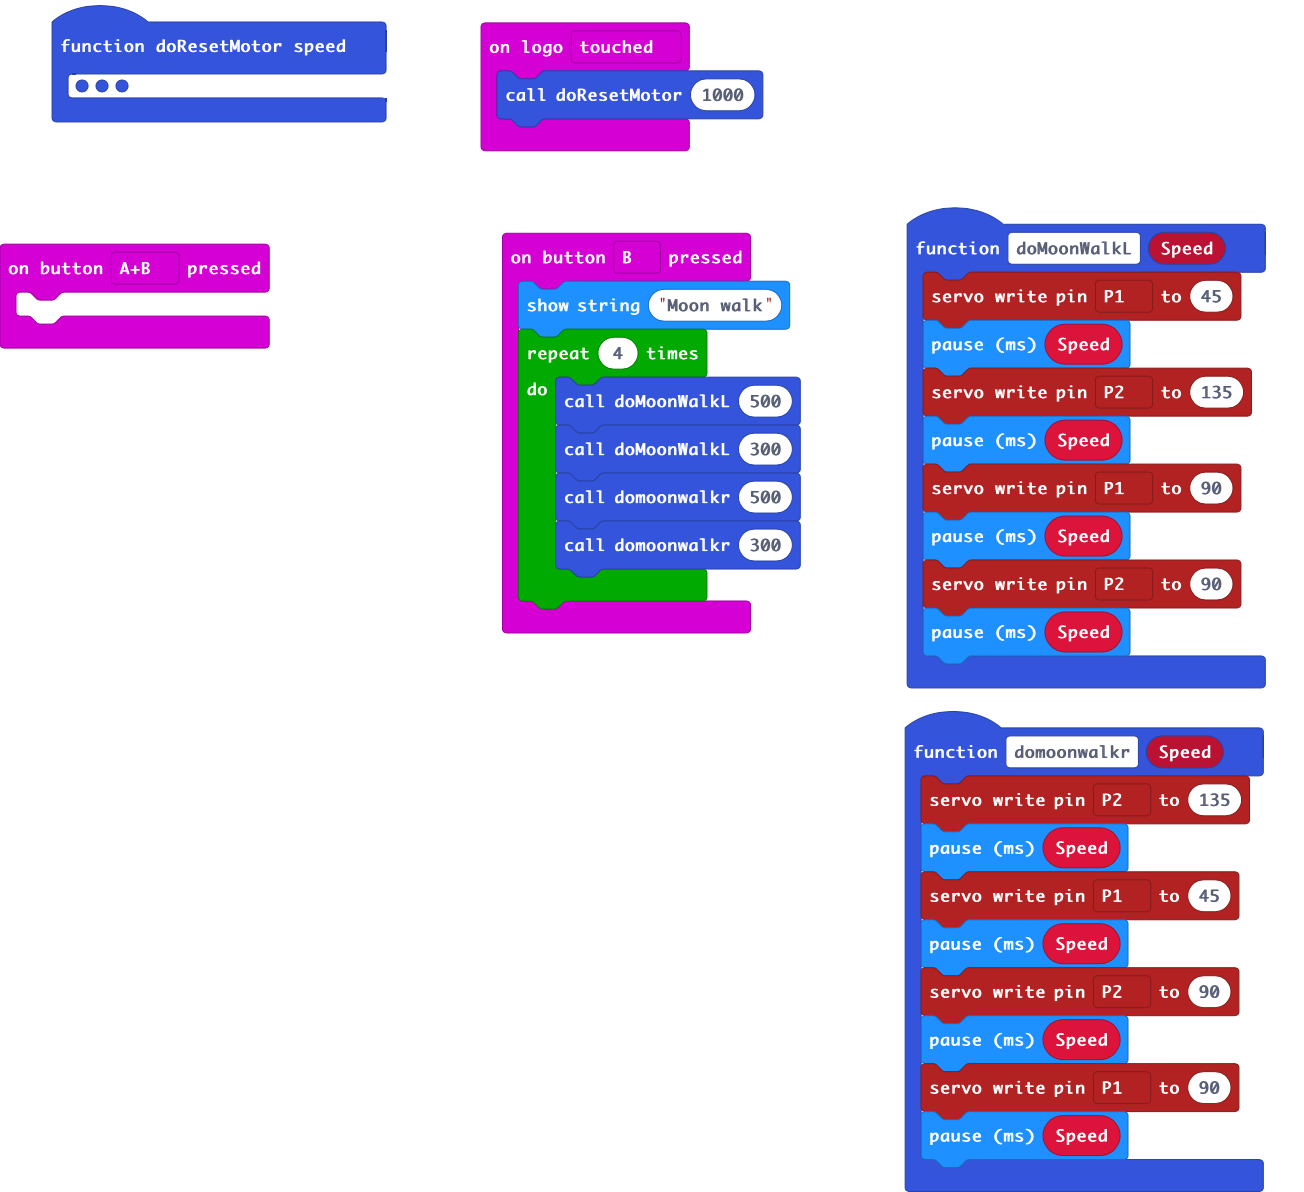
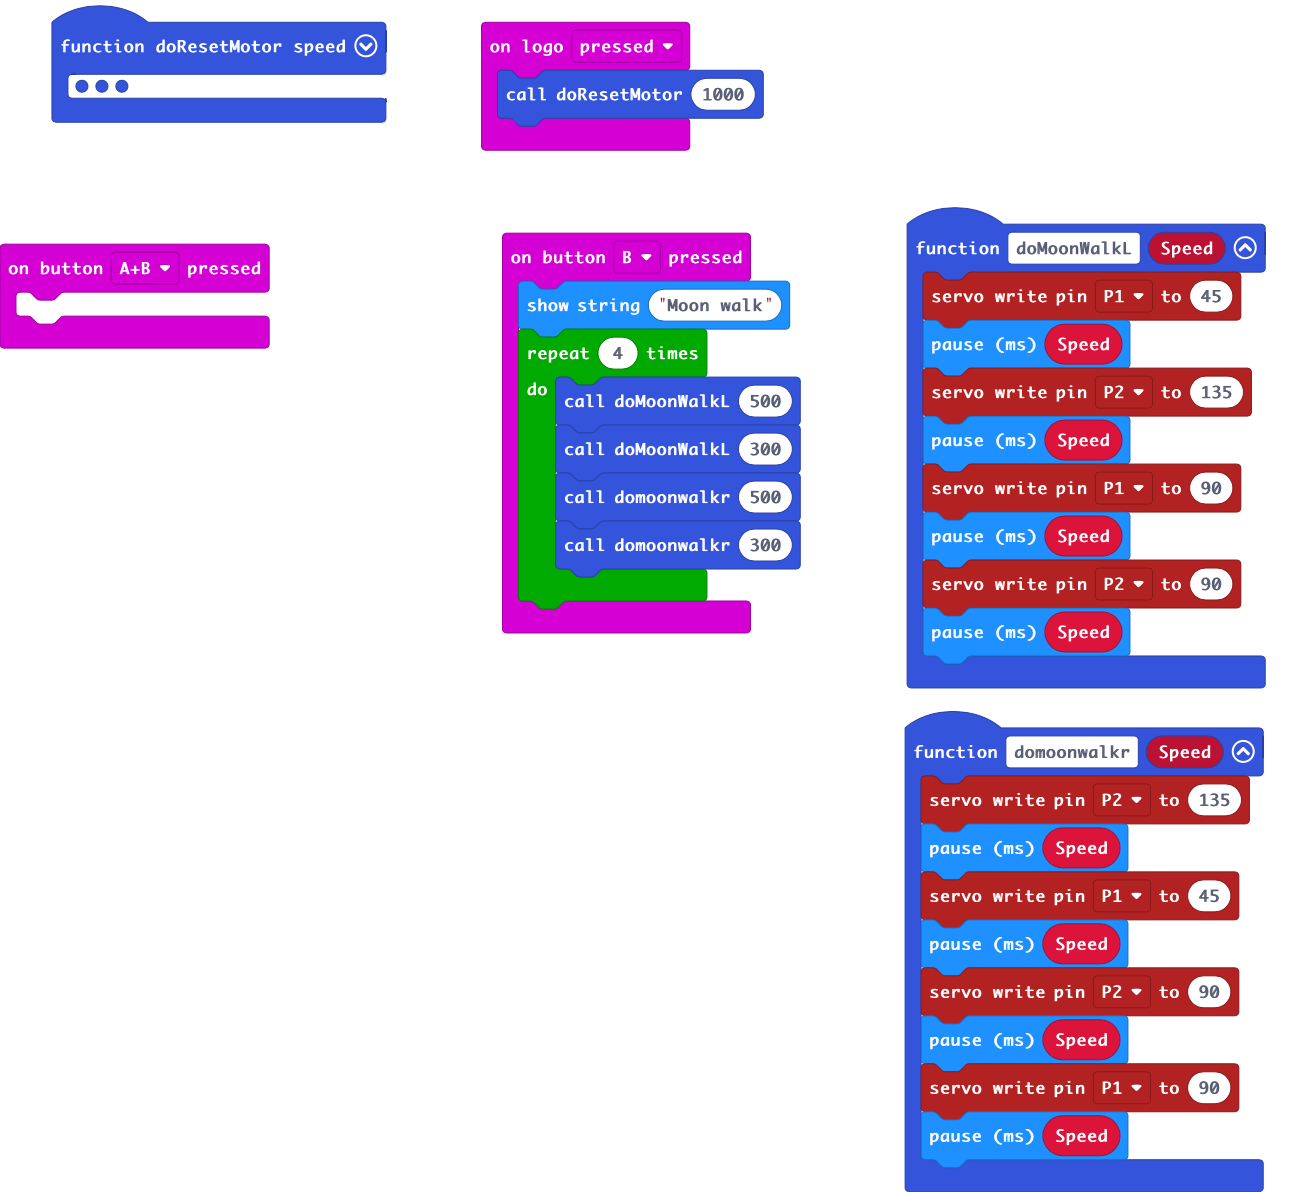
Update main.blocks, main.ts

diff --git a/main.ts b/main.ts
@@ -50,6 +50,6 @@ input.onButtonPressed(Button.B, function () {
         domoonwalkr(300)
     }
 })
-input.onLogoEvent(TouchButtonEvent.Touched, function () {
+input.onLogoEvent(TouchButtonEvent.Pressed, function () {
     doResetMotor(1000)
 })
